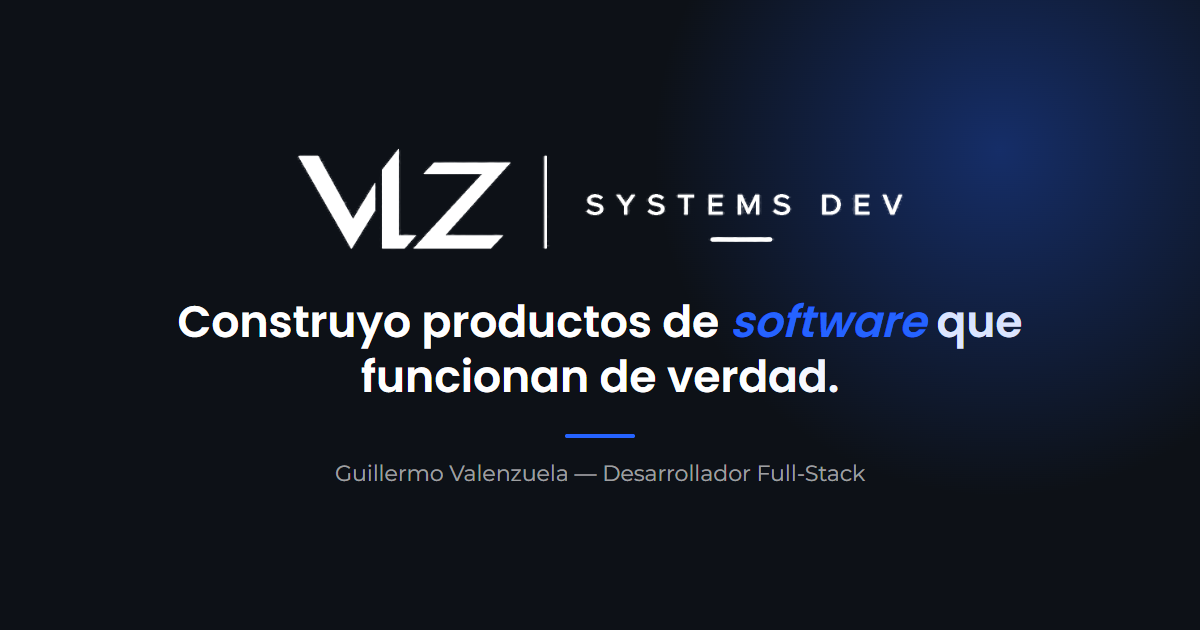
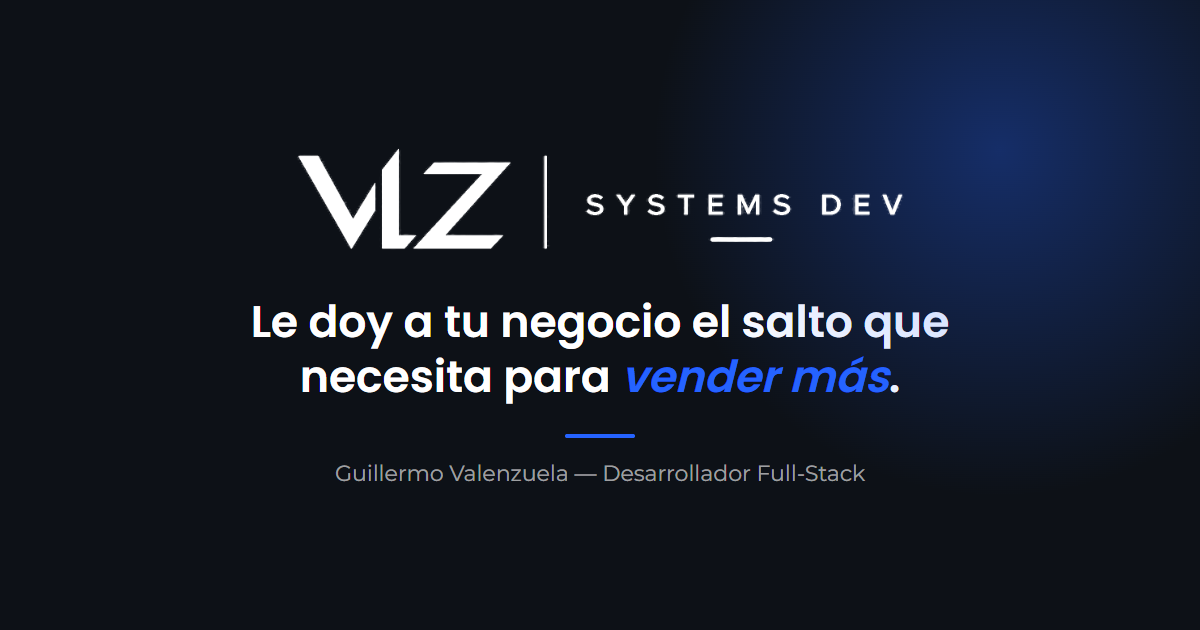
Update link-share preview image and description to match new hero copy

Changed region(s): [[0.1233, 0.4825, 0.8633, 0.6333]]

diff --git a/index.html b/index.html
@@ -9,14 +9,14 @@
 <meta property="og:type" content="website">
 <meta property="og:url" content="https://vlz-systems-dev.vercel.app">
 <meta property="og:title" content="VLZ Systems Dev — Guillermo Valenzuela">
-<meta property="og:description" content="Desarrollador full-stack. Construyo productos de software que funcionan de verdad.">
+<meta property="og:description" content="Desarrollador full-stack. Le doy a tu negocio el salto que necesita para vender más.">
 <meta property="og:image" content="https://vlz-systems-dev.vercel.app/assets/og-image.png">
 <meta property="og:image:width" content="1200">
 <meta property="og:image:height" content="630">
 
 <meta name="twitter:card" content="summary_large_image">
 <meta name="twitter:title" content="VLZ Systems Dev — Guillermo Valenzuela">
-<meta name="twitter:description" content="Desarrollador full-stack. Construyo productos de software que funcionan de verdad.">
+<meta name="twitter:description" content="Desarrollador full-stack. Le doy a tu negocio el salto que necesita para vender más.">
 <meta name="twitter:image" content="https://vlz-systems-dev.vercel.app/assets/og-image.png">
 
 <link rel="icon" type="image/png" href="assets/favicon.png">